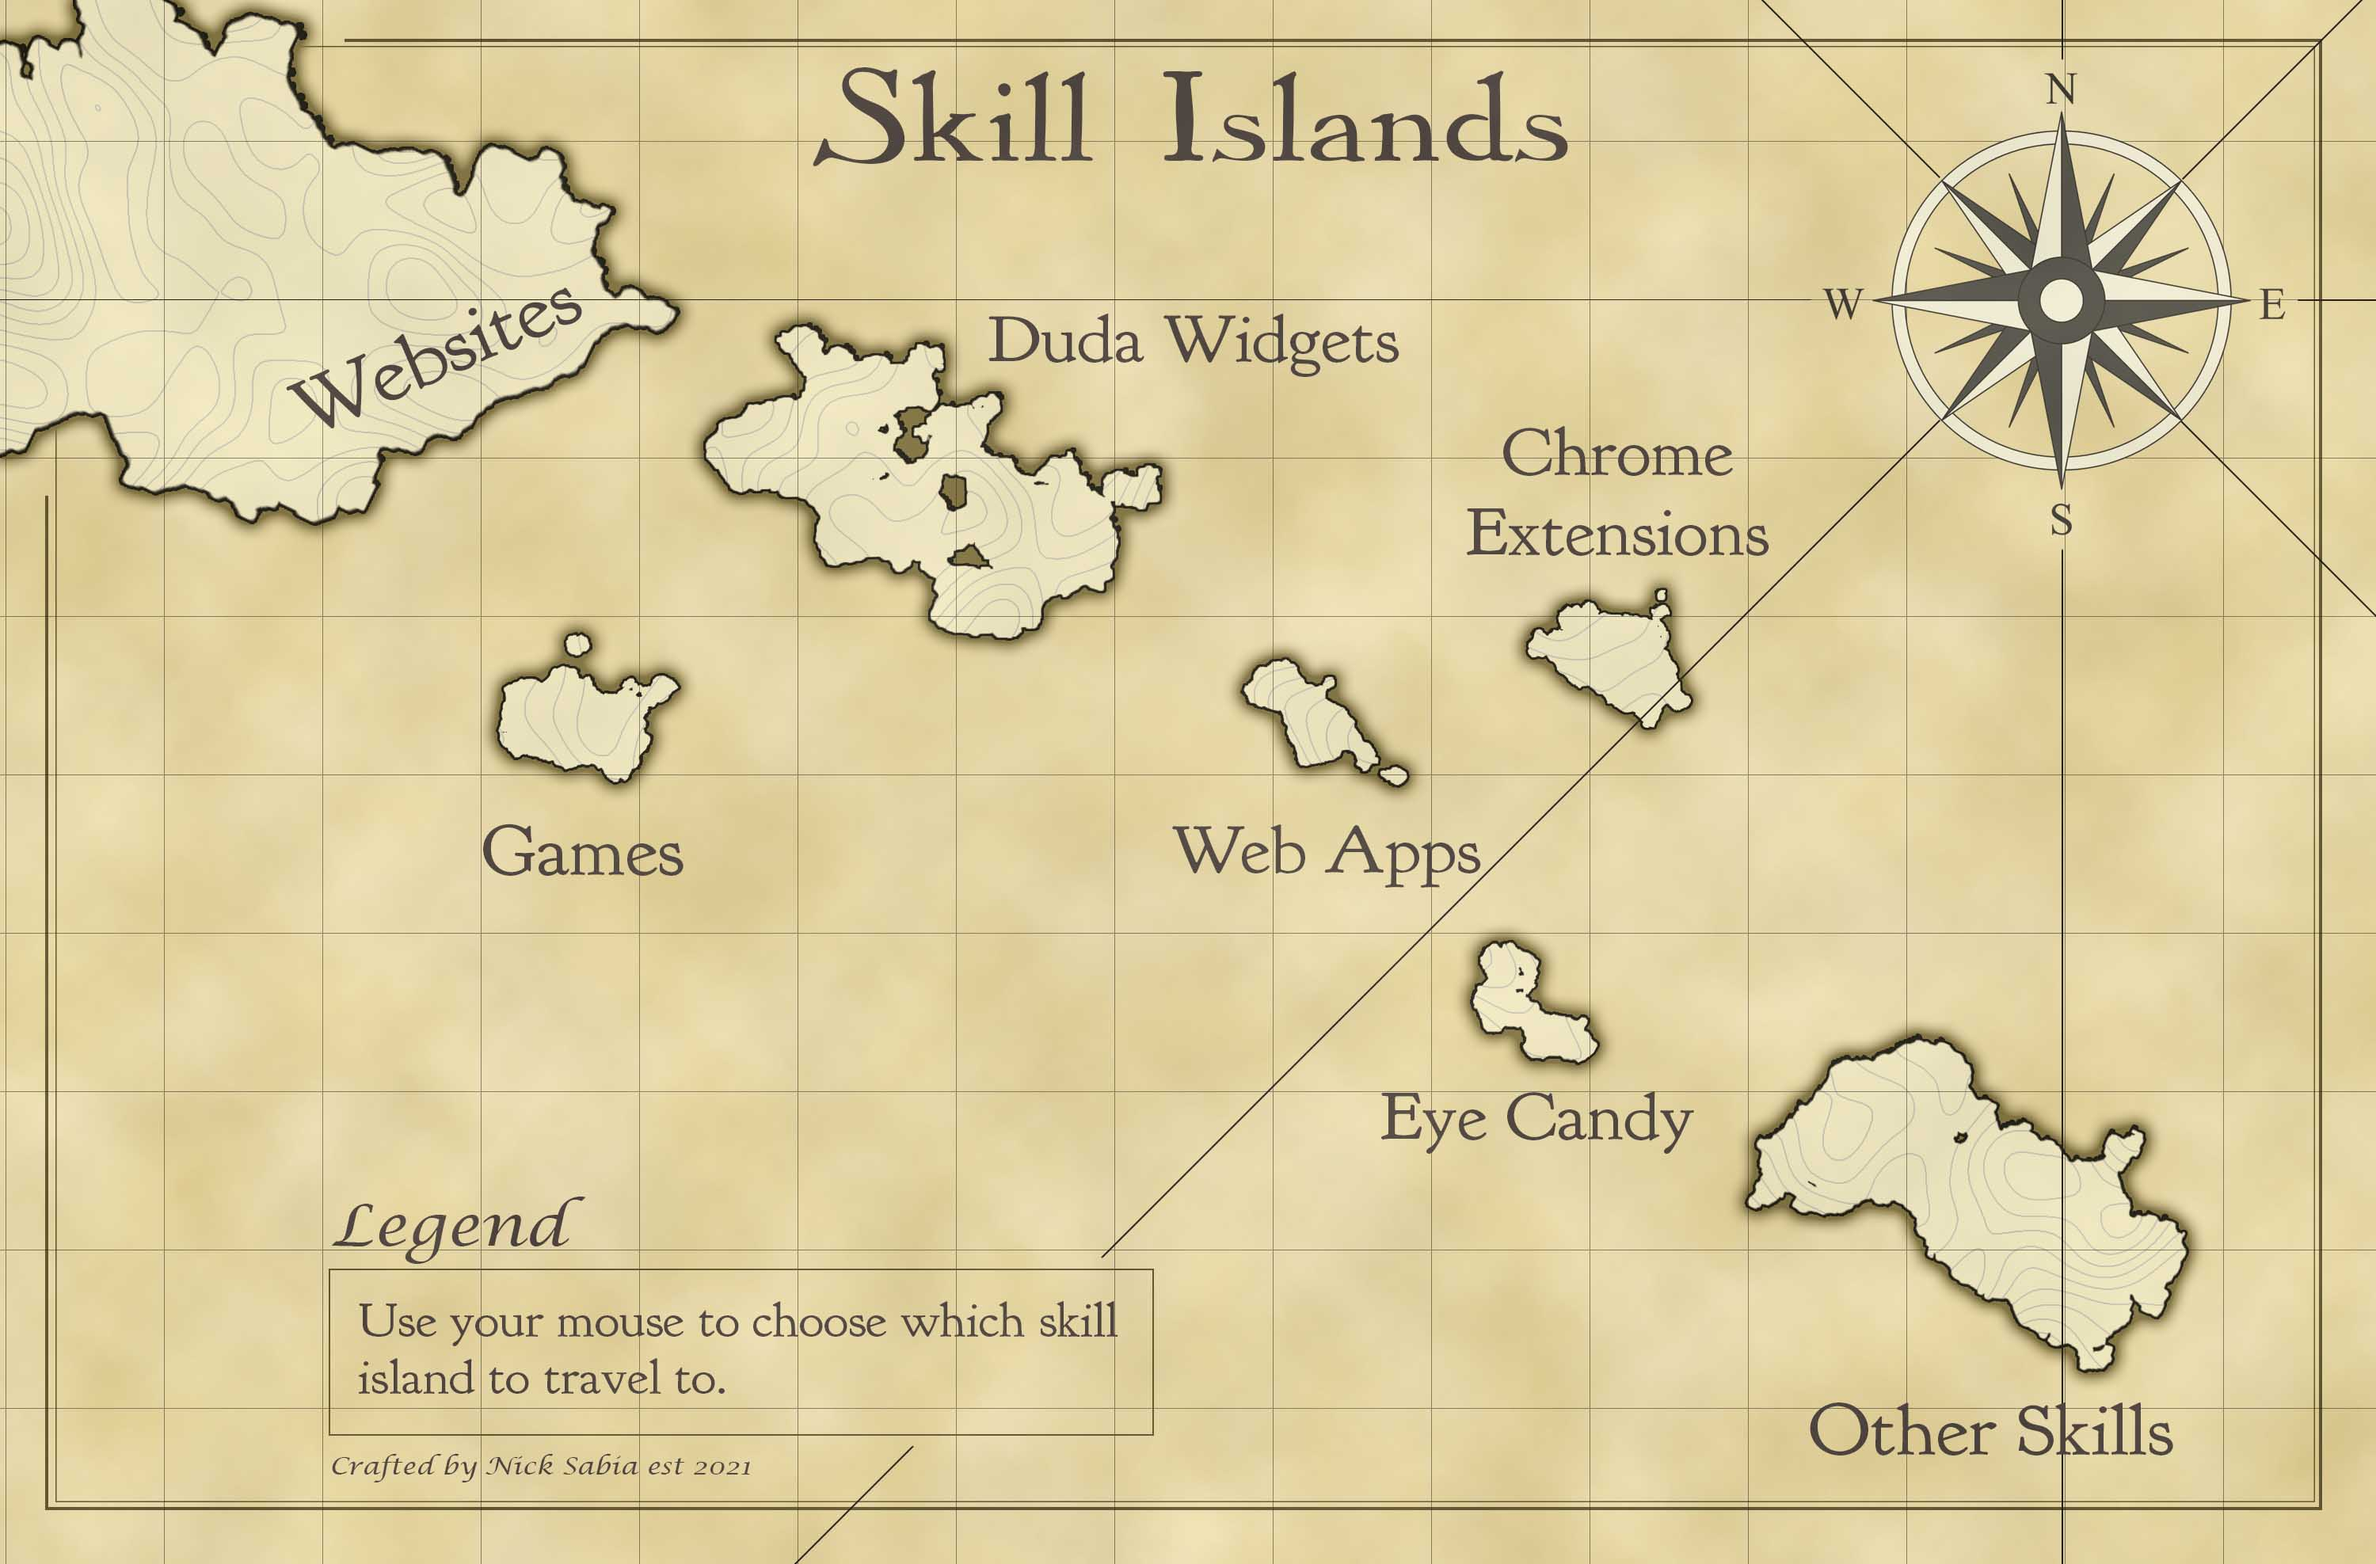
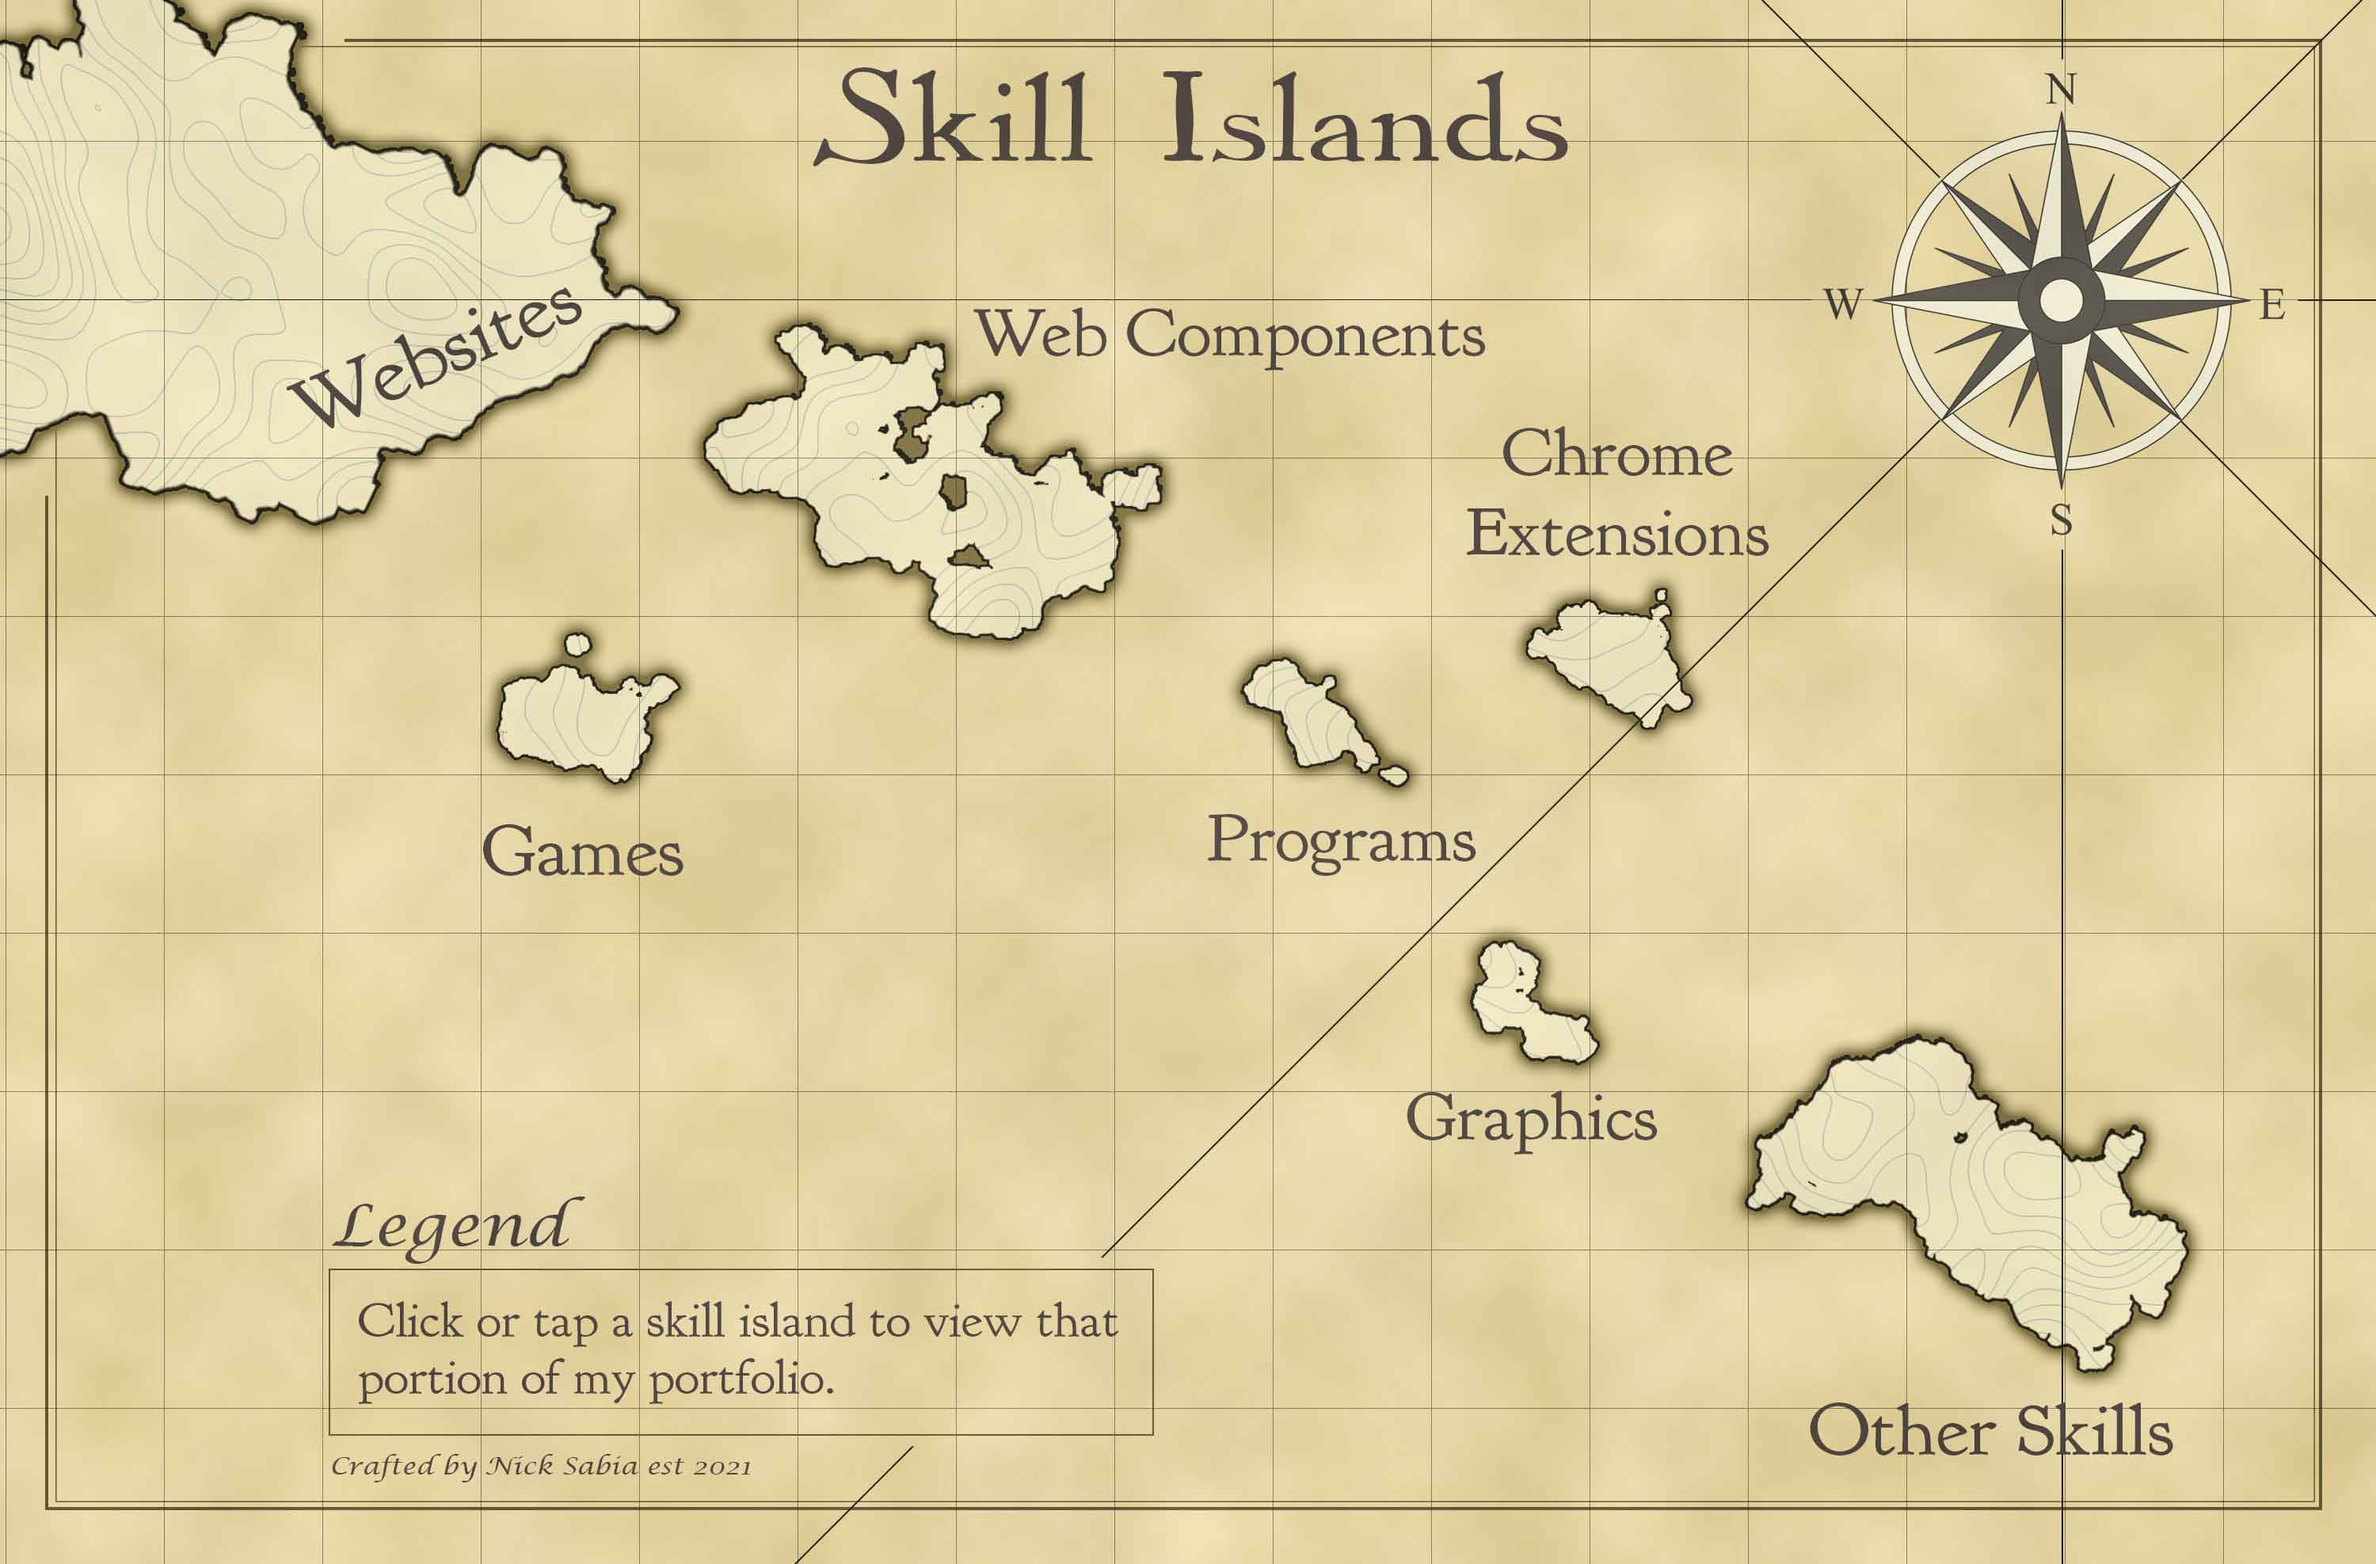
changed island names and reflected these changes in the shader.js code

diff --git a/6/shader.js b/6/shader.js
@@ -167,7 +167,7 @@ document.addEventListener("DOMContentLoaded", () => {
     });
     let clickablesData = [
         {
-            name: "Web Apps",
+            name: "Programs",
             position: new THREE.Vector3(0.01, 1.93, -1.75),
             scale: new THREE.Vector2(1, 1)
         },
@@ -177,7 +177,7 @@ document.addEventListener("DOMContentLoaded", () => {
             scale: new THREE.Vector2(1.2, 1.2)
         },
         {
-            name: "Eye Candy",
+            name: "Graphics",
             position: new THREE.Vector3(0.14, 1.93, -1.52),
             scale: new THREE.Vector2(1, 1)
         },
@@ -187,7 +187,7 @@ document.addEventListener("DOMContentLoaded", () => {
             scale: new THREE.Vector2(2.2, 2.2)
         },
         {
-            name: "Duda Widgets",
+            name: "Web Components",
             position: new THREE.Vector3(-0.28, 1.93, -2),
             scale: new THREE.Vector2(2.2, 2)
         },
@@ -749,7 +749,7 @@ document.addEventListener("DOMContentLoaded", () => {
         let intersections = getMouseRayIntersections();
         if (intersections[0] && intersections[0].object.name) {
             switch ((intersections[0].object.name).toString()) {
-                case "Web Apps":
+                case "Programs":
                     //console.log("Contributions Hovered");
                     drawnCircle.position.set(-0.02, 1.932, -1.75);
                     drawnCircle.scale.set(2.1, 2.1);
@@ -759,7 +759,7 @@ document.addEventListener("DOMContentLoaded", () => {
                     drawnCircle.position.set(0.21, 1.932, -1.79);
                     drawnCircle.scale.set(2, 2);
                     break;
-                case "Eye Candy":
+                case "Graphics":
                     //console.log("Eye Candy Hovered");
                     drawnCircle.position.set(0.13, 1.932, -1.51);
                     drawnCircle.scale.set(2, 2);
@@ -769,7 +769,7 @@ document.addEventListener("DOMContentLoaded", () => {
                     drawnCircle.position.set(0.47, 1.932, -1.33);
                     drawnCircle.scale.set(3, 3);
                     break;
-                case "Duda Widgets":
+                case "Web Components":
                     //console.log("Duda Widgets Hovered");
                     drawnCircle.position.set(-0.3, 1.932, -1.94);
                     drawnCircle.scale.set(3, 3);
